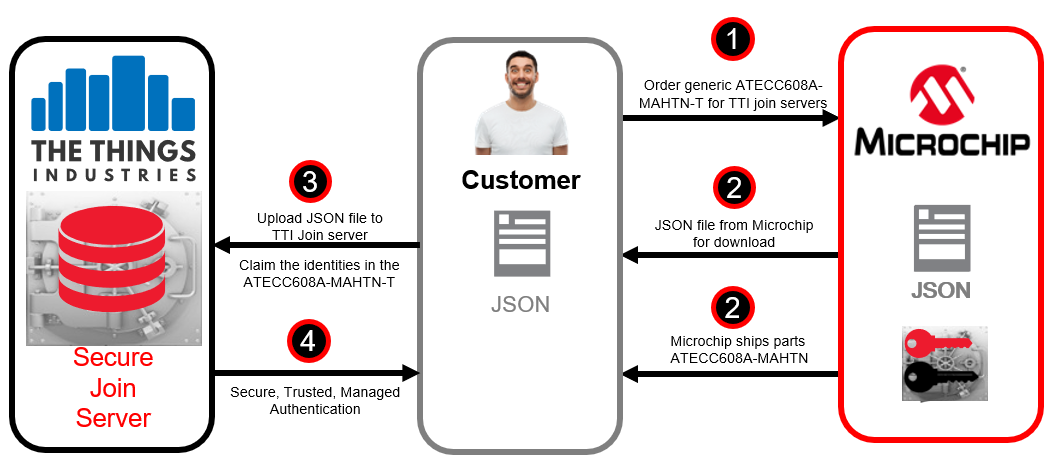
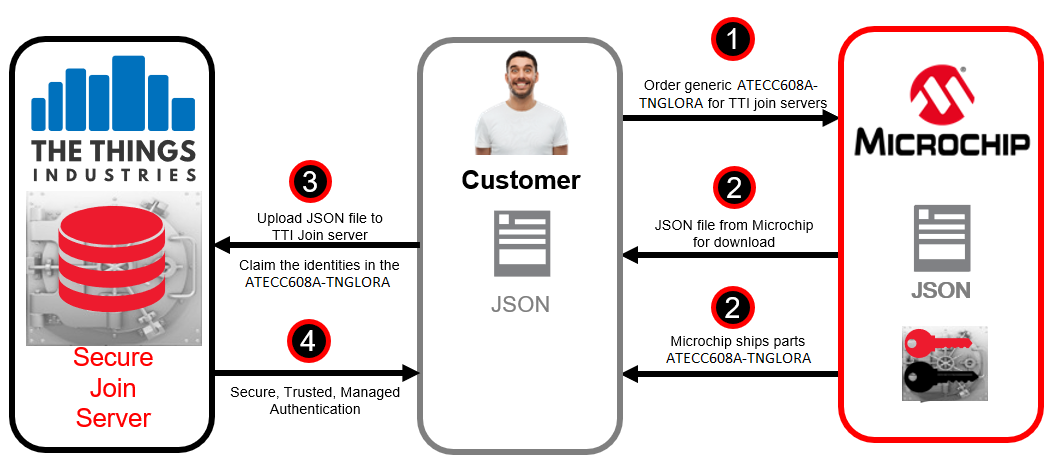
Made changes to keep TTI branding consistent.

diff --git a/TTI-Getting-Started.md b/TTI-Getting-Started.md
@@ -6,47 +6,47 @@ This guide will direct you through the process of getting started with developin
 
 This guide describes the following: 
 
-1. [Purchasing the pre-provisioned ATECC608A-TNGLORA Secure Element](TTN-Getting-Started#purchasing-the-pre-provisioned-atecc608a-tnglora-secure-element)
-2. [Claim pre-provisioned Secure Elements into your TTN account](TTN-Getting-Started#claim-pre-provisioned-secure-elements-into-your-ttn-account)
-3. [Hardware Development Tools](TTN-Getting-Started#hardware-development-tools)
-4. [Software packages and code example](TTN-Getting-Started#software-packages-and-code-example)
-5. [Next steps - Prototype to production transition](TTN-Getting-Started#next-steps---prototype-to-production-transition
+1. [Purchasing the pre-provisioned ATECC608A-TNGLORA Secure Element](TTI-Getting-Started#purchasing-the-pre-provisioned-atecc608a-tnglora-secure-element)
+2. [Claim pre-provisioned Secure Elements into your TTI account](TTI-Getting-Started#claim-pre-provisioned-secure-elements-into-your-ttn-account)
+3. [Hardware Development Tools](TTI-Getting-Started#hardware-development-tools)
+4. [Software packages and code example](TTI-Getting-Started#software-packages-and-code-example)
+5. [Next steps - Prototype to production transition](TTI-Getting-Started#next-steps---prototype-to-production-transition
 )
 
 ## Purchasing the pre-provisioned ATECC608A-TNGLORA Secure Element
 
-The ATECC608A-TNGLORA Secure Element for use with The Things Network Join Service can be purchased through Microchip Direct.  Microchip takes care of all the headache behind securely provisioning unique keys into each secure element - all you have to do is purchase the part, install it in your LoRaWAN end-device, and allow it to connect to The Things Network Join server.
+The ATECC608A-TNGLORA Secure Element for use with The Things Industries Join Service can be purchased through Microchip Direct.  Microchip takes care of all the headache behind securely provisioning unique keys into each secure element - all you have to do is purchase the part, install it in your LoRaWAN end-device, and allow it to connect to The Things Industries Join server.
 
 [<center><img src="ttn/images/ecc_order.png" alt="**Get your Secure Elements here!**" /></center>](https://www.microchip.com/wwwproducts/en/ATECC608A-TNGLORA)
 
-## Claim pre-provisioned Secure Elements into your TTN account
+## Claim pre-provisioned Secure Elements into your TTI account
 
 Once your ATECC608A-TNGLORA Secure Elements ship from Microchip Direct, you will be provided with a link to download a Device Manifest file representing your specific pre-provisioned Secure Element chips.
 
 <img src="ttn/images/downloadjson.png" />
 
-Next, you will upload this Device Manifest file into your The Thing Networks account console.  This will claim your batch of ATECC608A-TNGLORA Secure Elements within The Things Network Join server and automatically associate the secret *AppKey* and *NwkKey* keys with your account.
+Next, you will upload this Device Manifest file into your The Thing Industries account console.  This will claim your batch of ATECC608A-TNGLORA Secure Elements within The Things Industries Join server and automatically associate the secret *AppKey* and *NwkKey* keys with your account.
 
 This is how the claiming process goes...
 
 <img src="ttn/images/provisioning_flow.png" />
 
-[<center><img src="ttn/images/clicktoclaim.png" /></center>](http://ttn.fyi/joinserver/microchip)
+[<center><img src="ttn/images/clicktoclaim.png" /></center>](https://www.thethingsindustries.com/technology/security-solution/)
 
 <img src="ttn/images/warning.png" width=50 align="bottom">**\*Note that your Device Manifest file will not be ready for download immediately after purchase.  Instead, the file will be available once your ATECC608A-TNGLORA Secure Element devices ship.**
 
-After you successfully claim your devices, you can check the available devices in your TTN account under registered devices list.  This ensures that your devices is properly registered and ready to talk to the cloud.
+After you successfully claim your devices, you can check the available devices in your TTI account under registered devices list.  This ensures that your devices is properly registered and ready to talk to the cloud.
 
 ## Hardware Development Tools
 
 ### LoRaWAN Gateway
-You will need a supported LoRaWAN gateway to get packets from your LoRaWAN end-point to The Things Network platform.  There are many [commercially available gateways](https://www.thethingsnetwork.org/docs/gateways/start/list.html), or you can [build your own with a Raspberry Pi](https://www.thethingsnetwork.org/docs/gateways/start/build.html) and some additional hardware.  **This guide will use [The Things Gateway](https://www.thethingsnetwork.org/docs/gateways/gateway/)**.
+You will need a supported LoRaWAN gateway to get packets from your LoRaWAN end-point to The Things Industries platform.  There are many [commercially available gateways](https://www.thethingsnetwork.org/docs/gateways/start/list.html), or you can [build your own with a Raspberry Pi](https://www.thethingsnetwork.org/docs/gateways/start/build.html) and some additional hardware.  **This guide will use [The Things Gateway](https://www.thethingsnetwork.org/docs/gateways/gateway/)**.
 
 <img src="ttn/images/gateway.png" />
 
 #### Gateway Initialization and Registration
 
-The Things Network provides a very smooth process to activate your Gateway.  [Activate your Gateway here](https://activate.thethingsnetwork.org/)
+The Things Industries provides a very smooth process to activate your Gateway.  [Activate your Gateway here](https://activate.thethingsnetwork.org/)
 
 Once the Gateway is activated, you can manage the rest of the settings through [The Things Network Console](https://console.thethingsnetwork.org/).
 
@@ -54,7 +54,7 @@ Once the Gateway is activated, you can manage the rest of the settings through [
 
 ### Secure Element - ATECC608A-TNGLORA
 
-Your LoRaWAN end-point needs an identity, and the security of that identity is paramount!  Fortunately, the ATECC608A-TNGLORA pre-provisioned part contains all the information necessary to allow your LoRaWAN end-point to securely connect with The Things Network's Join Service.  You can think of the chip like a SIM card for a mobile phone.  For development, and this guide, you will use an AT88CKSCKTUDFN-XPRO socket board to let the SAMR34 XPlained Pro board connect to The Things Network LoRaWAN Join server.  Here is how to set up the hardware.
+Your LoRaWAN end-point needs an identity, and the security of that identity is paramount!  Fortunately, the ATECC608A-TNGLORA pre-provisioned part contains all the information necessary to allow your LoRaWAN end-point to securely connect with The Things Industries Join Service.  You can think of the chip like a SIM card for a mobile phone.  For development, and this guide, you will use an AT88CKSCKTUDFN-XPRO socket board to let the SAMR34 XPlained Pro board connect to The Things Industries LoRaWAN Join server.  Here is how to set up the hardware.
 
 #### The ATECC88CKSCKTUDFN-XPro Board
 
@@ -99,7 +99,7 @@ Here's how your board should look...
 
 #### Other Kits
 
-Other hardware kits can be used with the ATECC608A-TNGLORA Secure Element to connect with TTN's Join server.  ARM's MBED OS is used on MBED enabled platforms, such as the ATSAML21 XPlained Pro board, paired with a SX1276 LoRa radio board.</font>
+Other hardware kits can be used with the ATECC608A-TNGLORA Secure Element to connect with TTI's Join server.  ARM's MBED OS is used on MBED enabled platforms, such as the ATSAML21 XPlained Pro board, paired with a SX1276 LoRa radio board.</font>
 
 [ATSAML21-XPRO-B](https://os.mbed.com/platforms/SAML21-XPRO/)
 
@@ -170,7 +170,7 @@ Transmission Success
 *************************************************
 ```
 
-If your LoRaWAN end-device was registered to The Things Network, you can validate that the data received by TTN's cloud system by viewing the raw data on your TTN console page, under the **Application Data** area.
+If your LoRaWAN end-device was registered to The Things Industries, you can validate that the data received by TTI's cloud system by viewing the raw data on your TTI console page, under the **Application Data** area.
 
 <img src="ttn/images/rx_data_ttn.png" />
 
